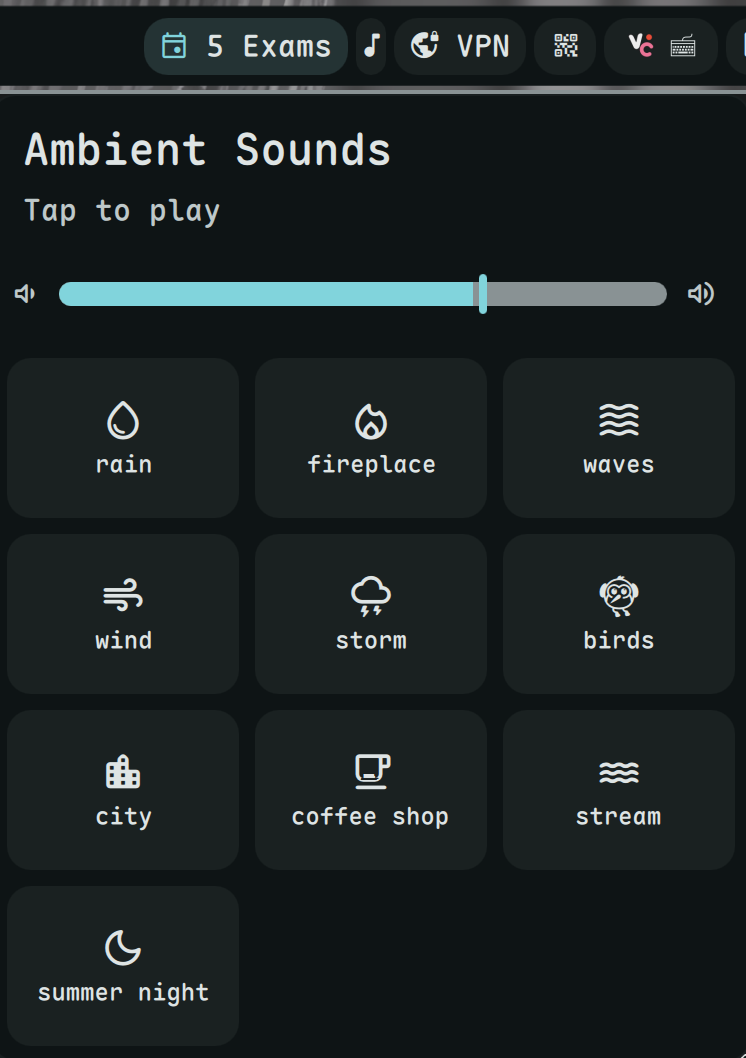
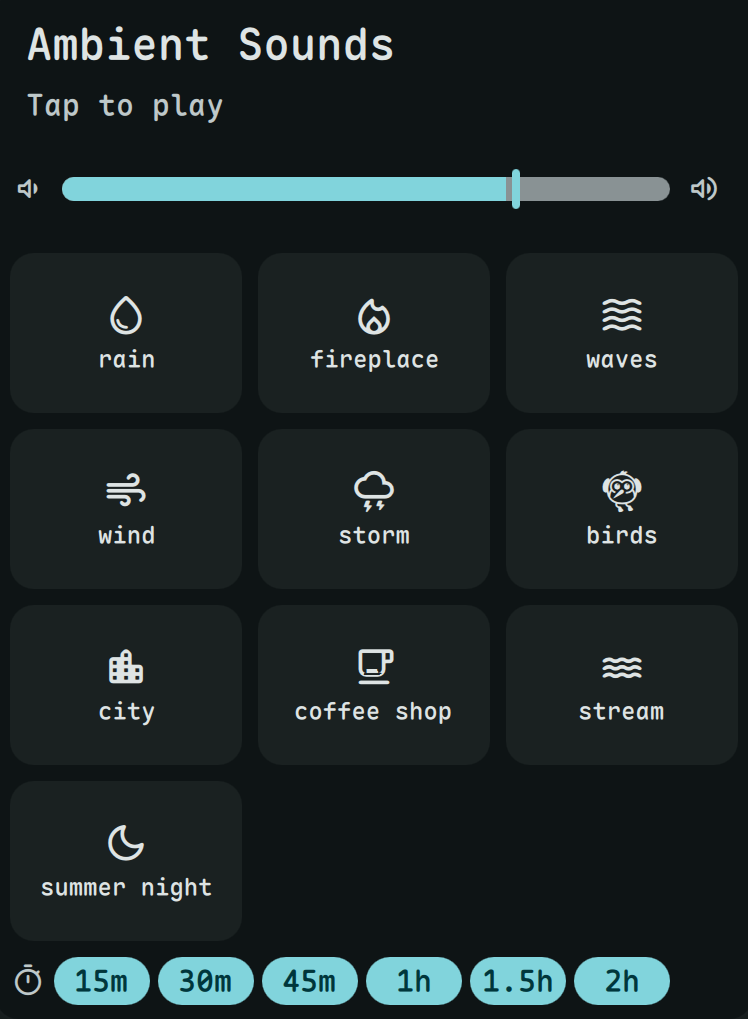
Add "Off" option for sleep timer duration and update default value

diff --git a/AmbientWidget.qml b/AmbientWidget.qml
@@ -90,7 +90,7 @@ Timer {
                 }
             }
             if (pluginData.enableSleepTimer) {
-                var minutes = parseInt(pluginData.sleepTimerDuration) || 30;
+                var minutes = parseInt(pluginData.sleepTimerDuration) || 0;
                 sleepTimer.interval = minutes * 60 * 1000;
                 sleepTimer.remainingTime = minutes * 60 * 1000;
                 sleepTimer.start();
@@ -126,19 +126,18 @@ Timer {
             DankIcon {
                 name: root.playingSounds.length > 0 ? "" : "music_note"
                 size: Theme.iconSizeSmall
-                color: root.playingSounds.length > 0 || sleepTimer.running ? Theme.onPrimary : Theme.surfaceVariantText
+                color: Theme.surfaceVariantText
                 anchors.verticalCenter: parent.verticalCenter
-                visible: !sleepTimer.running
             }
             Row {
                 anchors.verticalCenter: parent.verticalCenter
                 spacing: 2
-                visible: root.playingSounds.length > 0 && !sleepTimer.running
+                visible: root.playingSounds.length > 0
                 Repeater {
                     model: 3
                     Rectangle {
                         width: 2; height: 4; radius: 1
-                        color: Theme.onPrimary
+                        color: Theme.primary
                         anchors.verticalCenter: parent.verticalCenter
                         Timer {
                             running: root.playingSounds.length > 0; repeat: true; interval: 150 + (index * 50)
@@ -147,13 +146,6 @@ Timer {
                         Behavior on height { NumberAnimation { duration: 150 } }
                     }
                 }
-            }
-            StyledText {
-                text: sleepTimer.running ? formatRemainingTime(sleepTimer.remainingTime) : ""
-                font.pixelSize: Theme.fontSizeMedium
-                color: Theme.onPrimary
-                anchors.verticalCenter: parent.verticalCenter
-                visible: sleepTimer.running
             }
             MouseArea {
                 anchors.fill: parent

diff --git a/AmbientSettings.qml b/AmbientSettings.qml
@@ -90,6 +90,7 @@ PluginSettings {
                 label: "Default Duration"
                 description: "Default duration when starting timer."
                 options: [
+                    { label: "Off", value: "0" },
                     { label: "15 minutes", value: "15" },
                     { label: "30 minutes", value: "30" },
                     { label: "45 minutes", value: "45" },
@@ -97,7 +98,7 @@ PluginSettings {
                     { label: "1.5 hours", value: "90" },
                     { label: "2 hours", value: "120" }
                 ]
-                defaultValue: "30"
+                defaultValue: "Off"
                 visible: pluginData.enableSleepTimer ?? true
             }
         }